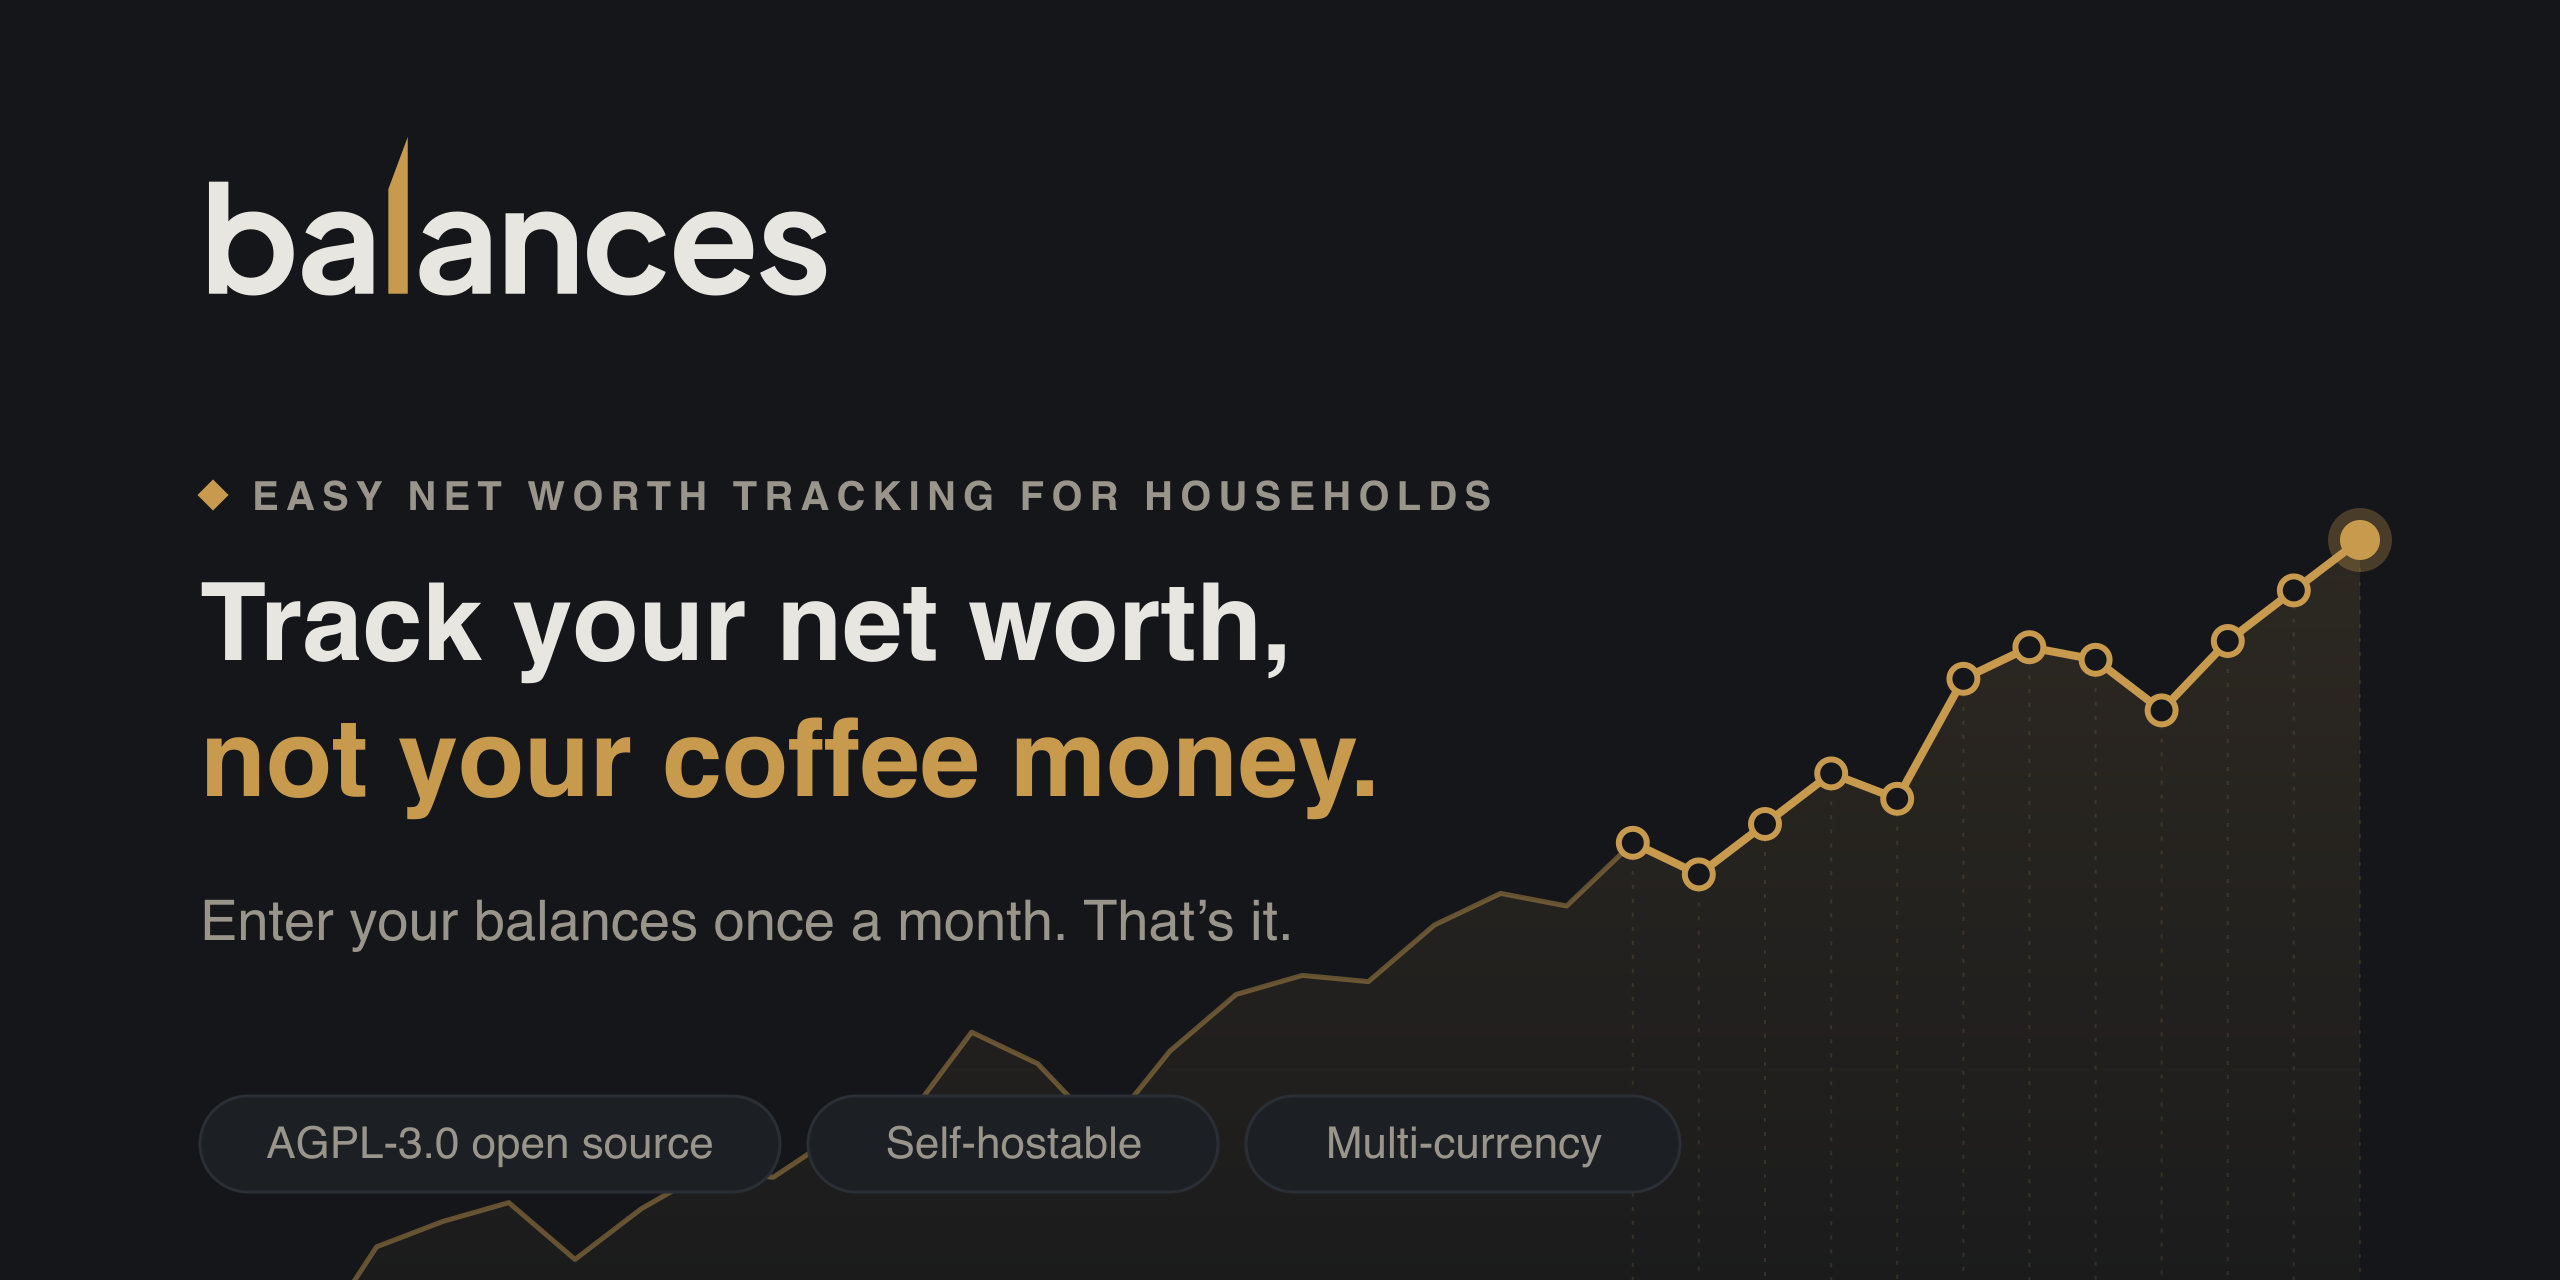
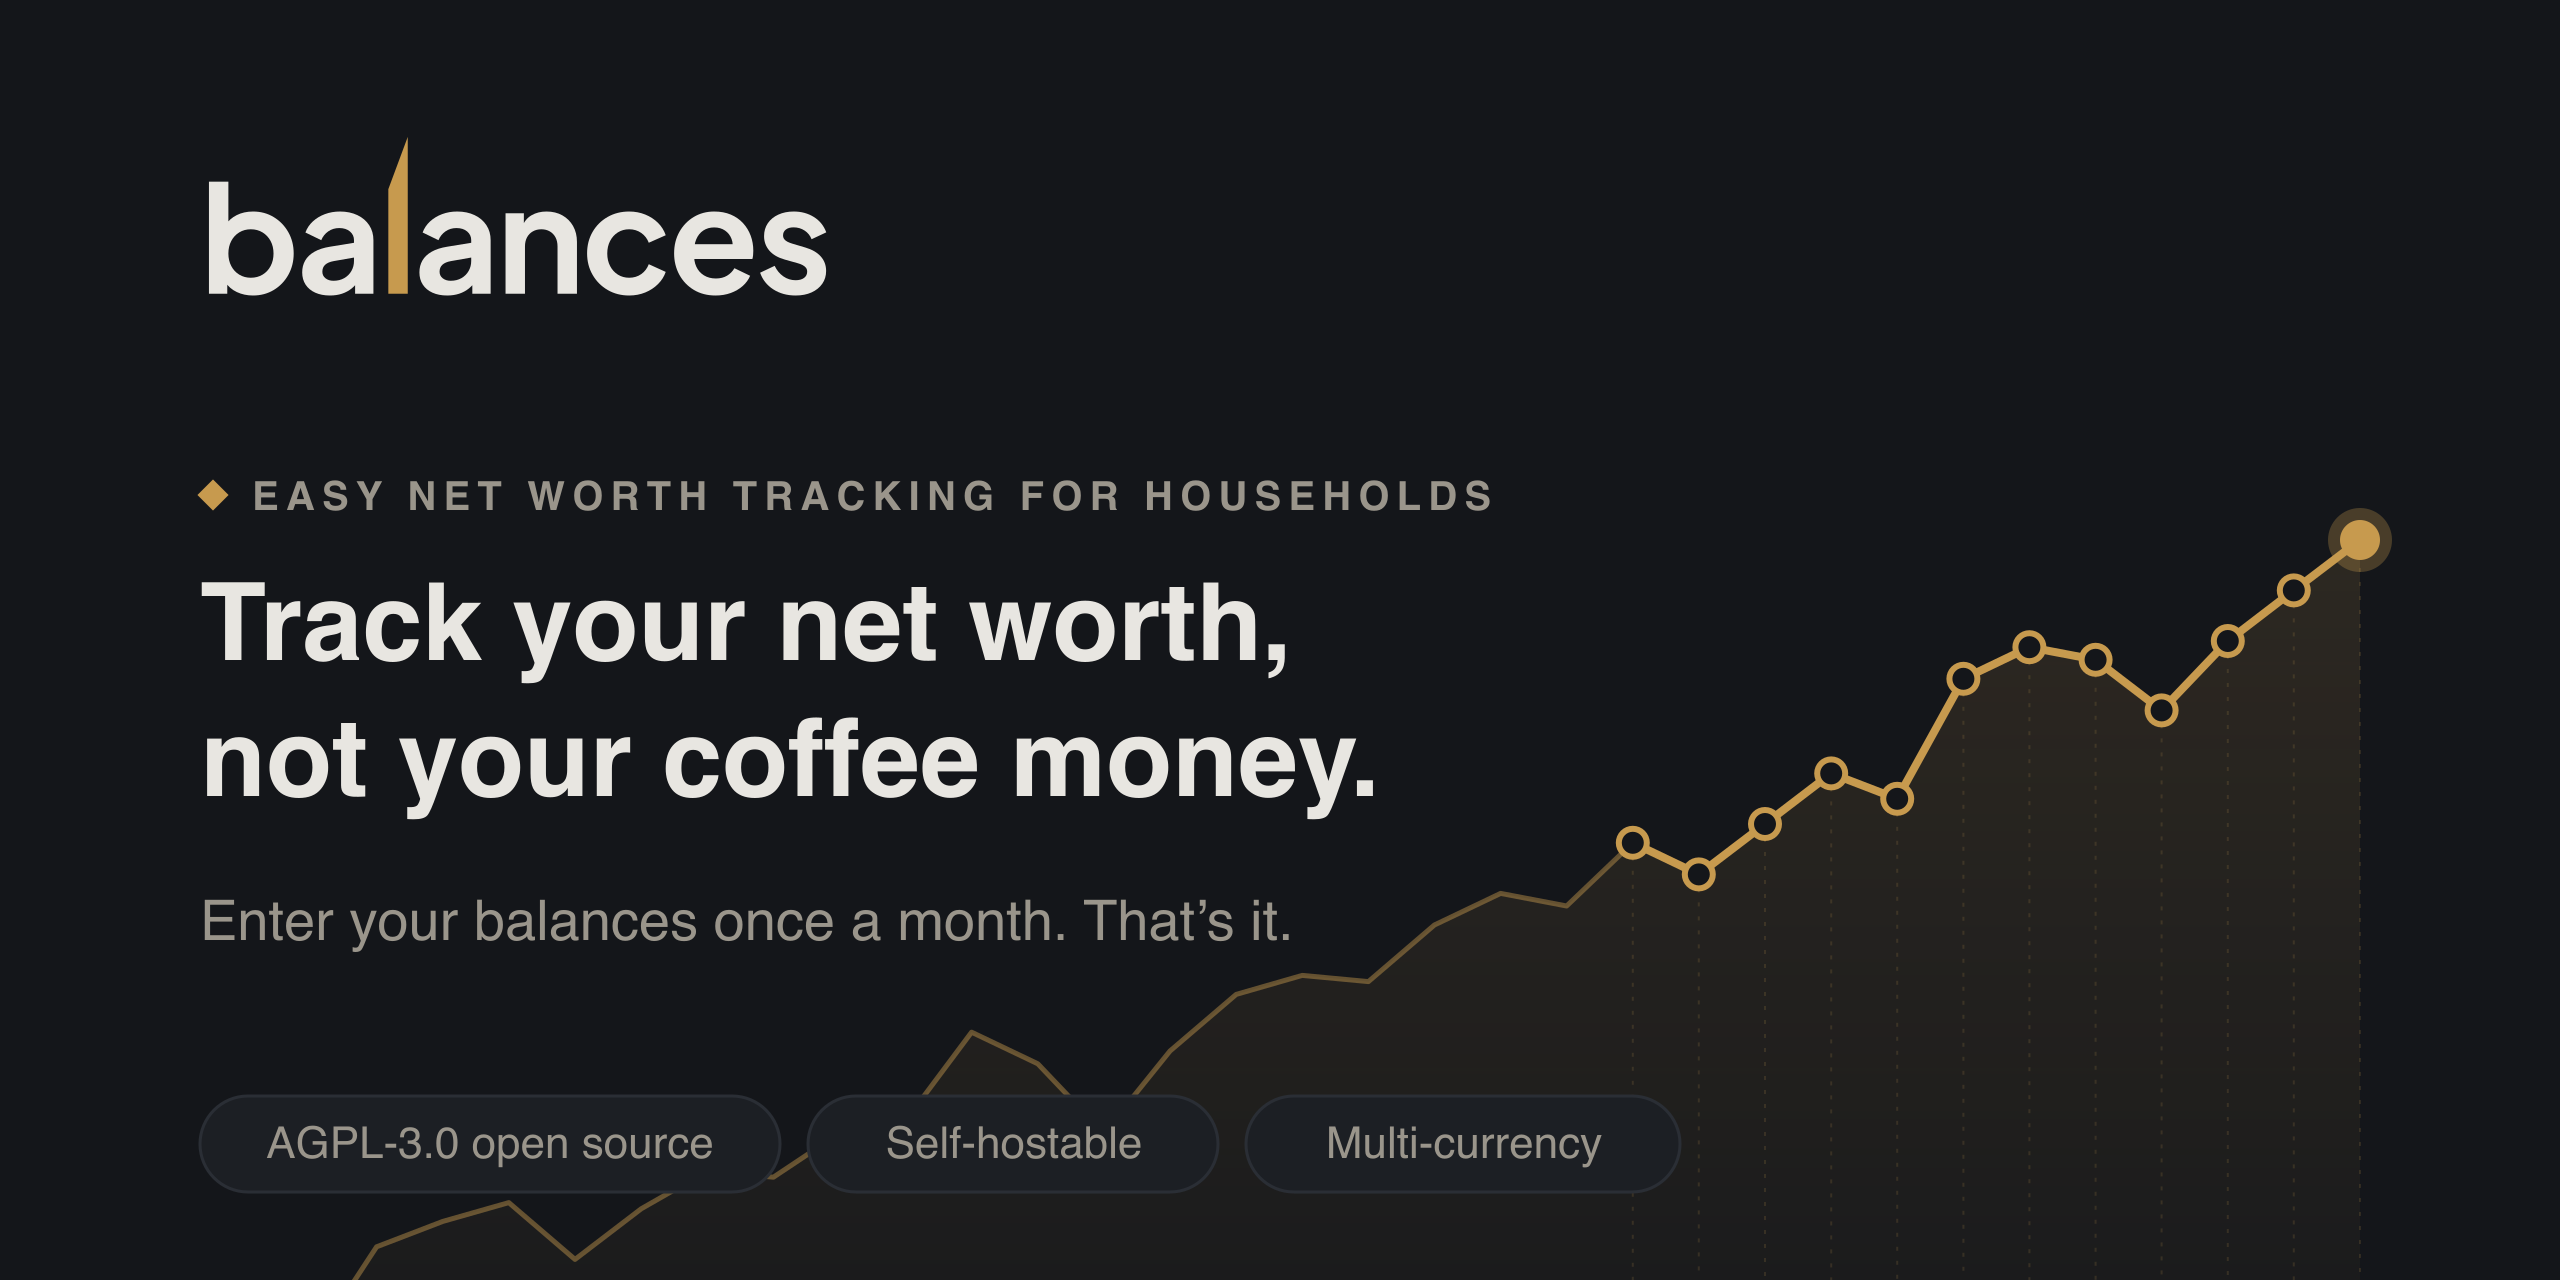
Headings: one colour, no brass italic hook
Every section heading and the headline lose the accent phrase (too common
a trope). The share image's second line goes white to match. The italic
face stays for the quoted questions in Not a budgeting app. CONTEXT.md
and the copy-audit skill record the rule.

Changed region(s): [[0.0625, 0.5625, 0.5312, 0.6562]]

diff --git a/scripts/og-card.ts b/scripts/og-card.ts
@@ -94,7 +94,7 @@ const svg = `<svg xmlns="http://www.w3.org/2000/svg" viewBox="0 0 ${width} ${hei
   <text x="${left + 26}" y="255" font-family="${font}" font-weight="600" font-size="20" letter-spacing="3.6" fill="${muted}">EASY NET WORTH TRACKING FOR HOUSEHOLDS</text>
   <g font-family="${font}" font-weight="700" font-size="54">
     <text x="${left}" y="330" fill="${ink}">Track your net worth,</text>
-    <text x="${left}" y="398" fill="${brass}">not your coffee money.</text>
+    <text x="${left}" y="398" fill="${ink}">not your coffee money.</text>
   </g>
   <text x="${left}" y="470" font-family="${font}" font-size="28" fill="${muted}">Enter your balances once a month. That’s it.</text>
   <g font-family="${font}" font-weight="500" font-size="22" fill="${muted}">

diff --git a/src/styles/global.css b/src/styles/global.css
@@ -183,13 +183,6 @@ img {
   transform: rotate(45deg);
 }
 
-/* Two-tone headings: the closing phrase carries the brass accent, set in
-   Geist's true italic (the wght-italic face imported above). */
-.accent {
-  color: var(--primary);
-  font-style: italic;
-}
-
 /* Scroll-triggered motion. Animations are declared only when motion is
    allowed, always with fill-mode `both` so their first frame shows while
    waiting. Under html.motion (set in Layout.astro's head) a [data-reveal]

diff --git a/.claude/skills/copy-audit/SKILL.md b/.claude/skills/copy-audit/SKILL.md
@@ -51,8 +51,8 @@ The script can't judge these. Read the rendered text (or the components) against
   Non-features stated plainly.
 - **Anti-slop.** "X, not Y" contrasts: few, never in more than one heading (the canonical headline
   is the approved one). Colon reveals ("the number that actually matters: X"). Three-item lists and
-  three cards in a row. Stock closers. Prose that repeats a chip or list beside it. A two-tone
-  heading highlights only the hook.
+  three cards in a row. Stock closers. Prose that repeats a chip or list beside it. Headings
+  are one colour: no brass italic hook (dropped 2026-11-17).
 - **Style.** British spelling (_-ise_, _colour_). No serial comma ("a, b and c"). Curly quotes and
   apostrophes. Periods and commas, never em dashes. Dates as _30 April_; numbers from data go
   through `Intl`.

diff --git a/CONTEXT.md b/CONTEXT.md
@@ -93,6 +93,8 @@ Churn-prone features (importers, tags, analytics) stay off the page until the ap
 - **Curly quotes and apostrophes** everywhere in copy: ’ “ ”.
 - **No em dashes** in copy; periods and commas instead.
 - **No exclamation marks.**
+- **Headings are one colour.** No brass italic phrase in a heading (dropped 2026-11-17 as a
+  trope). The one brass heading is How it works’ oversized “once a month.”, which works by size.
 
 `npm run copy-audit` checks the mechanical rules; `.claude/skills/copy-audit` covers the rest.
 
